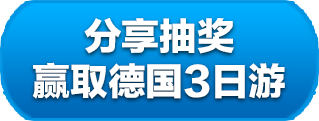
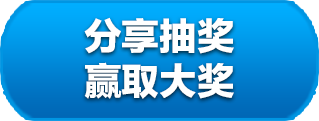
修改按钮
修改按钮

Changed region(s): [[0.0846, 0.5207, 0.9028, 0.843]]

diff --git a/app/css/main.css b/app/css/main.css
@@ -544,7 +544,7 @@ body {
 }
 
 .btns-sprite, .btns-continue, .btns-go-share, .btns-optiona, .btns-optionb, .btns-optionc, .btns-right, .right, .btns-roll-btn, .btns-share-play, .btns-wrong, .wrong {
-  background-image: url('../images/btns-s5c195e389e.png');
+  background-image: url('../images/btns-s8d558e6529.png');
   background-repeat: no-repeat;
 }
 

diff --git a/app/js/main.js b/app/js/main.js
@@ -12,7 +12,7 @@ var sourceArr = [
     'images/cover-bg.jpg',
     'images/bl.png',
     'images/blg.png',
-    'images/btns-s5c195e389e.png',
+    'images/btns-s8d558e6529.png',
     'images/car.png',
     'images/close-btn.png',
     'images/dice-s71513b1403.png',
